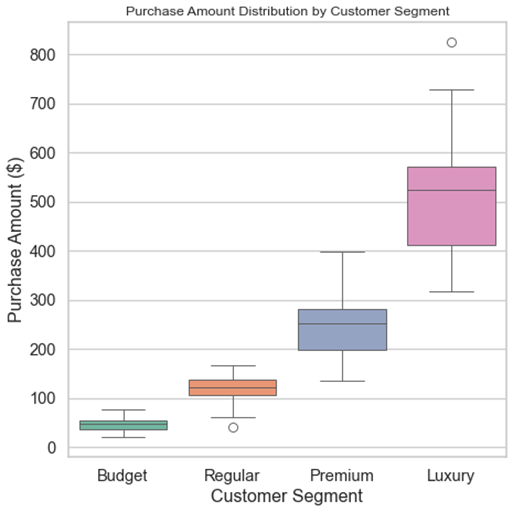
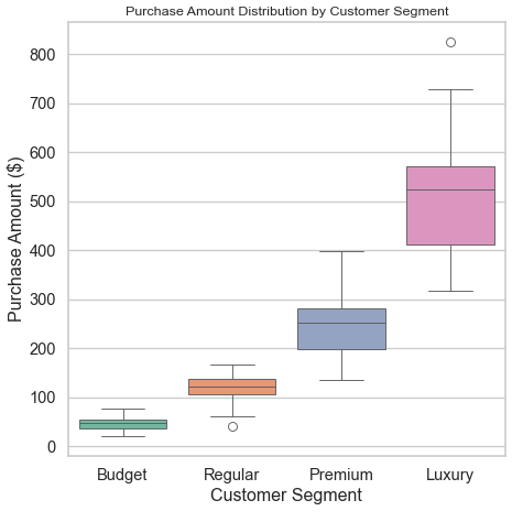
Final seaborn 512x512 chart

diff --git a/chart.py b/chart.py
@@ -2,6 +2,7 @@ import seaborn as sns
 import matplotlib.pyplot as plt
 import pandas as pd
 import numpy as np
+from PIL import Image, ImageOps
 
 # Synthetic realistic customer spending data
 np.random.seed(42)
@@ -25,10 +26,10 @@ data = pd.DataFrame({
 sns.set_style("whitegrid")
 sns.set_context("talk")
 
-# Exactly 512x512 pixels → figsize + dpi trick
-plt.figure(figsize=(8, 8), dpi=64)  # 8 inches × 64 dpi = 512 px
+# Step 1 — Create figure
+plt.figure(figsize=(8, 8), dpi=64)
 
-# Boxplot
+# Step 2 — Boxplot
 sns.boxplot(
     data=data,
     x="Customer_Segment",
@@ -36,11 +37,15 @@ sns.boxplot(
     palette="Set2"
 )
 
-# Titles & labels
 plt.title("Purchase Amount Distribution by Customer Segment", fontsize=14)
 plt.xlabel("Customer Segment")
 plt.ylabel("Purchase Amount ($)")
 
-# Save EXACT size
-plt.savefig("chart.png", dpi=64, bbox_inches="tight")
+# Step 3 — Save image (required bbox_inches='tight')
+plt.savefig("chart_temp.png", dpi=64, bbox_inches='tight')
 plt.close()
+
+# Step 4 — FORCE final image to EXACT 512×512 using padding
+img = Image.open("chart_temp.png")
+final_img = ImageOps.pad(img, (512, 512), color="white")
+final_img.save("chart.png")
